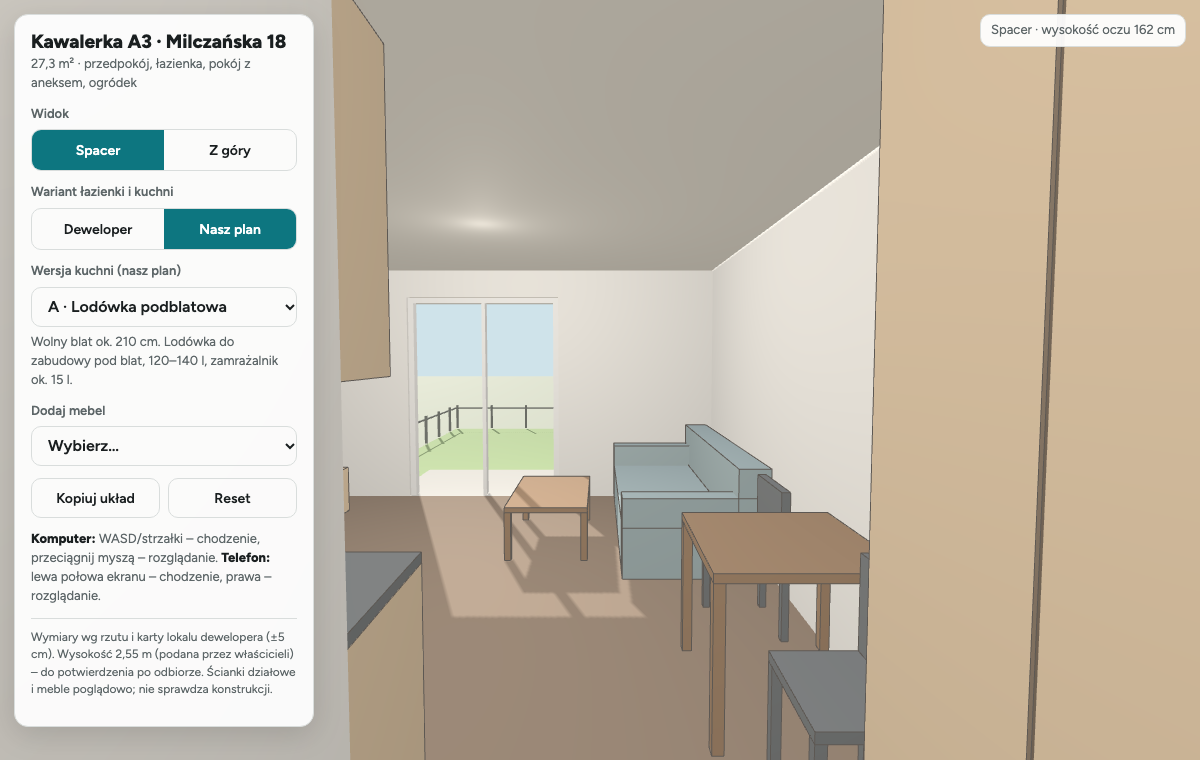
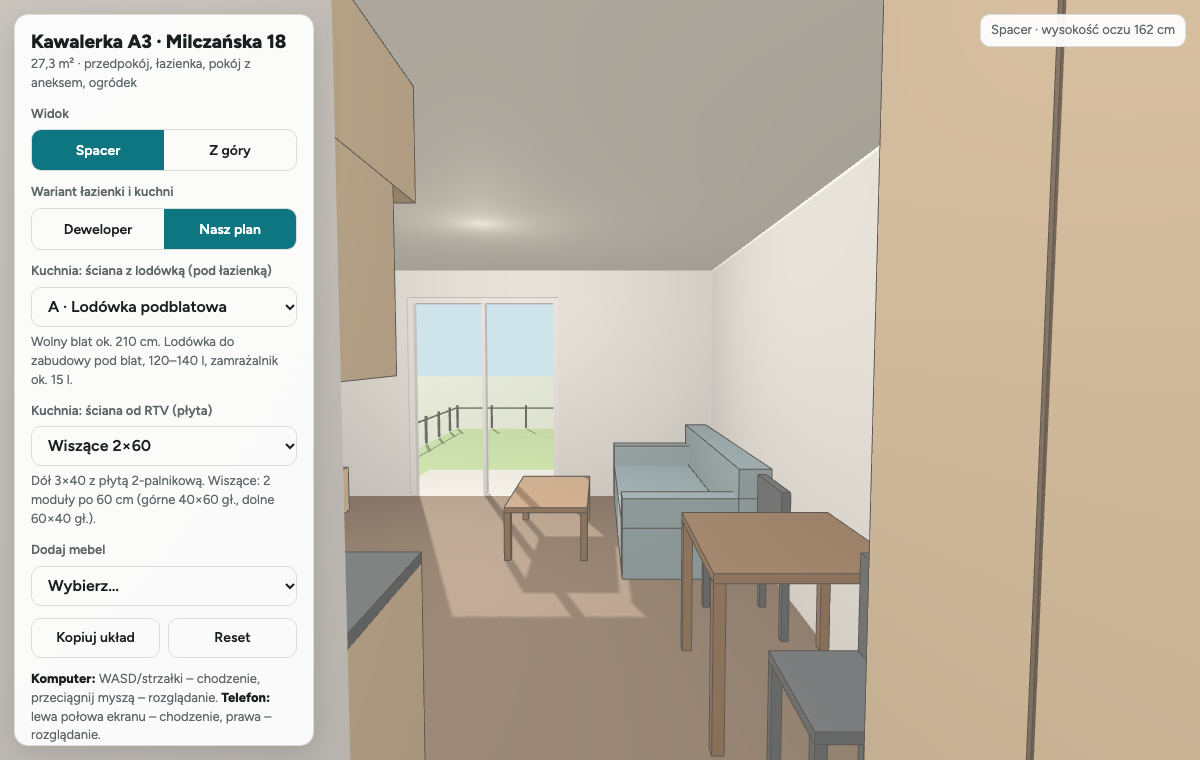
Dodanie picker do kuch ktory zarzadza szafkami w zaleznosci od sciany

diff --git a/index.html b/index.html
@@ -60,9 +60,12 @@ button:focus-visible,select:focus-visible,input:focus-visible{outline:2px solid 
  <div class="seg" id="mode"><button data-m="walk" class="on">Spacer</button><button data-m="top">Z góry</button></div>
  <div class="lbl">Wariant łazienki i kuchni</div>
  <div class="seg" id="bath"><button data-v="dev">Deweloper</button><button data-v="nasz" class="on">Nasz plan</button></div>
- <div id="frBox"><div class="lbl"><label for="fridge">Wersja kuchni (nasz plan)</label></div>
+ <div id="frBox"><div class="lbl"><label for="fridge">Kuchnia: ściana z lodówką (pod łazienką)</label></div>
  <select id="fridge"></select>
- <p class="help" id="frDesc" style="margin-top:6px"></p></div>
+ <p class="help" id="frDesc" style="margin-top:6px"></p>
+ <div class="lbl"><label for="rtv">Kuchnia: ściana od RTV (płyta)</label></div>
+ <select id="rtv"></select>
+ <p class="help" id="rtvDesc" style="margin-top:6px"></p></div>
  <div class="lbl">Dodaj mebel</div>
  <select id="add"><option value="">Wybierz…</option></select>
  <div id="sel" hidden>
@@ -148,23 +151,32 @@ R('lod','Lodówka (zabudowa)','tall',1.9,2.52,2.07,2.67,2.1,COL.oak,'dev');
 R('blat1','Blat: zmywarka + zlew','sinkc',2.52,3.65,2.07,2.67,.9,COL.oak,'dev');
 R('blat2','Blat z płytą','cook',3.65,4.25,2.76,4.63,.9,COL.oak,'dev');
 R('gorne','Szafki górne','upper',3.9,4.25,2.76,4.63,.72,COL.oak,'dev');
-// kuchnia – nasz plan (22.11.2026): szafki wiszące 100 cm pod sufit, przy RTV tylko 3×40 cm
-// pole fr: 'pod' | 'wolna' – przełącznik „Lodówka” (tylko w „Nasz plan”)
-const UY=H-1; // dół szafek wiszących
+// kuchnia – nasz plan (22.11.2026): szafki wiszące 100 cm = górne 40 wys. × 60 gł. pod sufitem + dolne 60 wys. × 40 gł. (bez przerwy)
+// pole fr: wersja ściany z lodówką (lista FRIDGE_WALL), pole rtv: wersja ściany od RTV (lista RTV_WALL)
+const UY=H-1,UT=H-.4; // dół szafek wiszących (dolnych), dół górnych
+// para szafek wiszących wzdłuż ściany pod łazienką (front +z)
+const UPZ=(id,x0,x1,mods,o)=>{R(id+'g','Szafki wiszące górne (40 wys., 60 gł.)','upper',x0,x1,2.07,2.67,.4,COL.oak,'nasz');RX(Object.assign({y:UT,mods},o));
+ R(id+'d','Szafki wiszące dolne (60 wys., 40 gł.)','upper',x0,x1,2.07,2.47,.6,COL.oak,'nasz');RX(Object.assign({y:UY,mods},o))};
+// para szafek wiszących wzdłuż ściany od RTV (front −x)
+const UPX=(id,z0,z1,mods,o,top=true)=>{if(top){R(id+'g','Szafki wiszące górne (40 wys., 60 gł.)','upper',3.65,4.25,z0,z1,.4,COL.oak,'nasz');RX(Object.assign({y:UT,mods},o))}
+ R(id+'d','Szafki wiszące dolne (60 wys., 40 gł.)','upper',3.85,4.25,z0,z1,.6,COL.oak,'nasz');RX(Object.assign({y:UY,mods},o))};
 // a) lodówka podblatowa: jeden ciąg blatu pod łazienką
 R('nBlatP','Blat: lodówka podblatowa + zmywarka + zlew','sinkc',1.9,3.65,2.07,2.67,.9,COL.oak,'nasz');RX({fr:'pod',mods:[.6,.6,.55],sink:[1.25,1.7]});
-R('nGP','Szafki wiszące 100 cm','upper',1.9,3.65,2.07,2.42,1,COL.oak,'nasz');RX({fr:'pod',y:UY,mods:[.6,.6,.55]});
+UPZ('nGP',1.9,3.65,[.6,.6,.55],{fr:'pod'});
 // b) lodówka wolnostojąca 60×145
 R('nLod','Lodówka wolnostojąca 60×145','fridge',1.9,2.5,2.07,2.69,1.45,COL.white,'nasz');RX({fr:'wolna'});
 R('nBlat1','Blat: zmywarka + zlew','sinkc',2.52,3.65,2.07,2.67,.9,COL.oak,'nasz');RX({fr:'wolna',mods:[.6,.53]});
-R('nGW','Szafki wiszące 100 cm','upper',1.9,3.65,2.07,2.42,1,COL.oak,'nasz');RX({fr:'wolna',y:UY,mods:[.62,.6,.53]});
+UPZ('nGW',1.9,3.65,[.62,.6,.53],{fr:'wolna'});
 // c) słupek od wejścia: lodówka do zabudowy (wnęka 140) + szafka do sufitu; podział frontów na wys. UY = linia dołu szafek wiszących
-R('nSlup','Słupek: lodówka do zabudowy 140 + szafka','slupek',1.9,2.5,2.07,2.67,H,COL.oak,'nasz');RX({fr:'slupek',split:[.1,UY]});
+R('nSlup','Słupek: lodówka do zabudowy 140 + szafka','slupek',1.9,2.5,2.07,2.67,H,COL.oak,'nasz');RX({fr:'slupek',split:[.1,UY,UT]}); // podziały w liniach szafek wiszących
 R('nBlatS','Blat: zmywarka + zlew','sinkc',2.5,3.65,2.07,2.67,.9,COL.oak,'nasz');RX({fr:'slupek',mods:[.6,.55],sink:[.65,1.1]});
-R('nGS','Szafki wiszące 100 cm','upper',2.5,3.65,2.07,2.42,1,COL.oak,'nasz');RX({fr:'slupek',y:UY,mods:[.6,.55]});
-// ściana od RTV: 3 moduły po 40 cm
+UPZ('nGS',2.5,3.65,[.6,.55],{fr:'slupek'});
+// ściana od RTV: dolne 3 moduły po 40 cm z płytą 2-palnikową (wspólne), wiszące wg wersji
 R('nBlat2','Blat z płytą 2-palnikową (3×40)','cook',3.65,4.25,2.76,3.96,.9,COL.oak,'nasz');RX({hob:2,mods:[.4,.4,.4]});
-R('nG2v2','Szafki wiszące 100 cm (2×60)','upper',3.9,4.25,2.76,3.96,1,COL.oak,'nasz');RX({y:UY,mods:[.6,.6]});
+UPX('nR60',2.76,3.96,[.6,.6],{rtv:'w2x60'});
+UPX('nR40',2.76,3.96,[.4,.4,.4],{rtv:'w3x40'});
+UPX('nR60b',2.76,3.96,[.6,.6],{rtv:'w2x60b'},false); // bez górnych 40×60 – nad szafkami wolna ściana do sufitu
+UPX('nR40b',2.76,3.96,[.4,.4,.4],{rtv:'w3x40b'},false);
 // pokój
 R('stol','Stół','table',0,.8,2.83,3.63,.75,COL.wood);
 R('kr1','Krzesło','chair',.19,.59,2.35,2.79,.85,COL.dark);
@@ -186,28 +198,35 @@ R('nWc','WC podwieszane','wc',2.82,3.22,1.22,1.75,.4,COL.white,'nasz');
 R('nSz','Szafa z pralką (do sufitu)','wardrobe',2,2.62,1.3,1.95,H,COL.oak,'nasz');
 R('nLu','Lustro 60×80','mirror',2.85,3.45,0,.02,.8,0xc9d6dc,'nasz');DEFAULT[DEFAULT.length-1].y=1.1; // nad umywalką, dół 110 cm
 R('nDr','Grzejnik drabinkowy 50×125','ladder',3.59,4.09,0,.05,1.25,0xf4f4f2,'nasz');DEFAULT[DEFAULT.length-1].y=1.15; // 115 cm nad podłogą, 16 cm od prawej ściany
-// wersje kuchni „Nasz plan” (lista rozwijana). Nowa wersja = nowy wpis + meble z polem fr:'<id>'
-const KITCHEN=[
+// wersje kuchni „Nasz plan” – osobno dla każdej ściany (listy rozwijane).
+// Nowa wersja = nowy wpis + meble z polem fr:'<id>' (ściana z lodówką) albo rtv:'<id>' (ściana od RTV)
+const FRIDGE_WALL=[
  {id:'pod',name:'A · Lodówka podblatowa',desc:'Wolny blat ok. 210 cm. Lodówka do zabudowy pod blat, 120–140 l, zamrażalnik ok. 15 l.'},
  {id:'wolna',name:'B · Wolnostojąca 60×145',desc:'Wolny blat ok. 150 cm. Ok. 200 l. Biała bryła przerywa linię frontów.'},
  {id:'slupek',name:'C · Słupek z lodówką 140',desc:'Wolny blat ok. 150 cm. Lodówka do zabudowy (wnęka 140), ok. 200 l; podział frontów na 155 cm = linia szafek wiszących.'}];
+const RTV_WALL=[
+ {id:'w2x60',name:'Wiszące 2×60',desc:'Dół 3×40 z płytą 2-palnikową. Wiszące: 2 moduły po 60 cm (górne 40×60 gł., dolne 60×40 gł.).'},
+ {id:'w3x40',name:'Wiszące 3×40',desc:'Dół 3×40 z płytą 2-palnikową. Wiszące: 3 moduły po 40 cm, fronty w osi z dolnymi szafkami.'},
+ {id:'w2x60b',name:'Wiszące 2×60, bez górnych',desc:'Dół 3×40 z płytą 2-palnikową. Wiszące tylko 60 wys. × 40 gł. (1,55–2,15 m), nad nimi 40 cm wolnej ściany.'},
+ {id:'w3x40b',name:'Wiszące 3×40, bez górnych',desc:'Dół 3×40 z płytą 2-palnikową. Wiszące tylko 60 wys. × 40 gł. (1,55–2,15 m), 3 moduły po 40 cm, nad nimi 40 cm wolnej ściany.'}];
 const CATALOG=[['Łóżko 160×200','bed',1.6,2.1,.5,COL.blue],['Łóżko 140×200','bed',1.4,2.1,.5,COL.blue],['Sofa rozkładana 200','sofa',2,.95,.85,COL.fabric],['Fotel','chair',.8,.8,.85,COL.fabric],['Biurko 120×60','table',1.2,.6,.75,COL.wood],['Stół 120×80','table',1.2,.8,.75,COL.wood],['Krzesło','chair',.44,.44,.85,COL.dark],['Szafa 100×60','wardrobe',1,.6,2.2,COL.oak],['Regał 80×35','wardrobe',.8,.35,1.9,COL.oak],['Komoda 120×45','tall',1.2,.45,.85,COL.oak],['Wyspa / barek 120×60','tall',1.2,.6,.95,COL.oak],['Dywan 160×230','rug',1.6,2.3,.01,0xc9c1b4],['Roślina','plant',.45,.45,1.3,0x4f7a43]];
 const addSel=document.getElementById('add');
-const frSel=document.getElementById('fridge');frSel.innerHTML=KITCHEN.map(k=>`<option value="${k.id}">${k.name}</option>`).join('');
+const frSel=document.getElementById('fridge');frSel.innerHTML=FRIDGE_WALL.map(k=>`<option value="${k.id}">${k.name}</option>`).join('');
+const rtvSel=document.getElementById('rtv');rtvSel.innerHTML=RTV_WALL.map(k=>`<option value="${k.id}">${k.name}</option>`).join('');
 addSel.innerHTML+=CATALOG.map((c,i)=>`<option value="${i}">${c[0]}</option>`).join('');
 
-let state={bath:'nasz',fridge:'pod',items:JSON.parse(JSON.stringify(DEFAULT))};
-const KEY='a3-milczanska-uklad-v8';
+let state={bath:'nasz',fridge:'pod',rtv:'w2x60',items:JSON.parse(JSON.stringify(DEFAULT))};
+const KEY='a3-milczanska-uklad-v9';
 try{let s=JSON.parse(localStorage.getItem(KEY));
- if(!s){s=JSON.parse(localStorage.getItem('a3-milczanska-uklad-v7'))||JSON.parse(localStorage.getItem('a3-milczanska-uklad-v6'))||JSON.parse(localStorage.getItem('a3-milczanska-uklad-v5'))||JSON.parse(localStorage.getItem('a3-milczanska-uklad-v4'))||JSON.parse(localStorage.getItem('a3-milczanska-uklad-v3'))||JSON.parse(localStorage.getItem('a3-milczanska-uklad-v2'));
+ if(!s){s=JSON.parse(localStorage.getItem('a3-milczanska-uklad-v8'))||JSON.parse(localStorage.getItem('a3-milczanska-uklad-v7'))||JSON.parse(localStorage.getItem('a3-milczanska-uklad-v6'))||JSON.parse(localStorage.getItem('a3-milczanska-uklad-v5'))||JSON.parse(localStorage.getItem('a3-milczanska-uklad-v4'))||JSON.parse(localStorage.getItem('a3-milczanska-uklad-v3'))||JSON.parse(localStorage.getItem('a3-milczanska-uklad-v2'));
   if(!s){s=JSON.parse(localStorage.getItem('a3-milczanska-uklad-v1'));
    // v1 -> v2: zostają pozycje, kolory domyślnych mebli z nowej palety (kontrast)
    if(s&&s.items)s.items.forEach(it=>{const d=DEFAULT.find(x=>x.id===it.id);if(d)it.color=d.color})}
-  // starsze -> v8: „Nasz plan” (łazienka + kuchnia) z DEFAULT, wariant domyślnych mebli z DEFAULT; reszta mebli zostaje na swoich miejscach
+  // starsze -> v9: „Nasz plan” (łazienka + kuchnia) z DEFAULT, wariant domyślnych mebli z DEFAULT; reszta mebli zostaje na swoich miejscach
   if(s&&s.items)s.items.forEach(it=>{const d=DEFAULT.find(x=>x.id===it.id);if(d)it.v=d.v});
   if(s&&s.items)s.items=s.items.filter(it=>it.v!=='nasz').concat(JSON.parse(JSON.stringify(DEFAULT.filter(d=>d.v==='nasz'))))}
  if(s&&s.items){DEFAULT.forEach(d=>{if(!s.items.some(i=>i.id===d.id))s.items.push(JSON.parse(JSON.stringify(d)))}); // nowe meble z DEFAULT (np. nowa wersja kuchni)
-  if(!KITCHEN.some(k=>k.id===s.fridge))s.fridge='pod';state=s}}catch(e){}
+  if(!FRIDGE_WALL.some(k=>k.id===s.fridge))s.fridge='pod';if(!RTV_WALL.some(k=>k.id===s.rtv))s.rtv='w2x60';state=s}}catch(e){}
 const save=()=>{try{localStorage.setItem(KEY,JSON.stringify(state))}catch(e){}};
 
 const furn=new THREE.Group();scene.add(furn);
@@ -263,7 +282,7 @@ const edgeMat=new THREE.LineBasicMaterial({color:0x1c1916});
 const glassEdgeMat=new THREE.LineBasicMaterial({color:0x6d7f86});
 function addEdges(g){g.children.slice().forEach(o=>{if(!o.isMesh)return;
  const l=new THREE.LineSegments(new THREE.EdgesGeometry(o.geometry,30),o.material===mat.glass?glassEdgeMat:edgeMat);l.raycast=()=>{};o.add(l)})}
-const visible=it=>!it.hidden&&(it.v==='all'||it.v===state.bath)&&(!it.fr||it.fr===(state.fridge||'pod'));
+const visible=it=>!it.hidden&&(it.v==='all'||it.v===state.bath)&&(!it.fr||it.fr===(state.fridge||'pod'))&&(!it.rtv||it.rtv===(state.rtv||'w2x60'));
 function rebuild(){
  while(furn.children.length)furn.remove(furn.children[0]);
  state.items.filter(visible).forEach(it=>{const g=build(it);furn.add(g);if(it.id===selId)outline(g)});
@@ -283,9 +302,11 @@ function setMode(m){mode=m;document.querySelectorAll('#mode button').forEach(b=>
 document.querySelectorAll('#mode button').forEach(b=>b.onclick=()=>setMode(b.dataset.m));
 document.querySelectorAll('#bath button').forEach(b=>b.onclick=()=>{state.bath=b.dataset.v;markBath();if(selId&&!visible(selItem()))selId=null;rebuild()});
 function markBath(){document.querySelectorAll('#bath button').forEach(b=>b.classList.toggle('on',b.dataset.v===state.bath));
- frSel.value=state.fridge||'pod';const k=KITCHEN.find(k=>k.id===frSel.value);document.getElementById('frDesc').textContent=k?k.desc:'';
+ frSel.value=state.fridge||'pod';const k=FRIDGE_WALL.find(k=>k.id===frSel.value);document.getElementById('frDesc').textContent=k?k.desc:'';
+ rtvSel.value=state.rtv||'w2x60';const r=RTV_WALL.find(k=>k.id===rtvSel.value);document.getElementById('rtvDesc').textContent=r?r.desc:'';
  document.getElementById('frBox').hidden=state.bath!=='nasz'}
 frSel.onchange=()=>{state.fridge=frSel.value;markBath();if(selId&&!visible(selItem()))selId=null;rebuild()};
+rtvSel.onchange=()=>{state.rtv=rtvSel.value;markBath();if(selId&&!visible(selItem()))selId=null;rebuild()};
 document.getElementById('toggle').onclick=()=>document.getElementById('panel').classList.toggle('open');
 
 // ---------- zaznaczanie i edycja ----------
@@ -299,8 +320,8 @@ document.getElementById('sRot').onclick=()=>{const it=selItem();if(it){it.rot=(i
 document.getElementById('sDel').onclick=()=>{const it=selItem();if(it){it.hidden=true;selId=null;rebuild()}};
 addSel.onchange=()=>{const c=CATALOG[addSel.value];if(!c)return;const id='u'+Date.now();
  state.items.push({id,name:c[0],kind:c[1],w:c[2],d:c[3],h:c[4],color:c[5],x:2.1,z:4.4,rot:0,v:'all'});selId=id;addSel.value='';setMode('top');rebuild()};
-document.getElementById('reset').onclick=()=>{state={bath:'nasz',fridge:'pod',items:JSON.parse(JSON.stringify(DEFAULT))};selId=null;markBath();rebuild()};
-document.getElementById('copy').onclick=()=>{const txt=JSON.stringify({wariant:state.bath,kuchnia:state.bath==='nasz'?(KITCHEN.find(k=>k.id===(state.fridge||'pod'))||{}).name:undefined,meble:state.items.filter(visible).map(i=>({nazwa:i.name,x_cm:Math.round(i.x*100),z_cm:Math.round(i.z*100),szer:Math.round(i.w*100),gleb:Math.round(i.d*100),wys:Math.round(i.h*100),obrot:i.rot}))});
+document.getElementById('reset').onclick=()=>{state={bath:'nasz',fridge:'pod',rtv:'w2x60',items:JSON.parse(JSON.stringify(DEFAULT))};selId=null;markBath();rebuild()};
+document.getElementById('copy').onclick=()=>{const txt=JSON.stringify({wariant:state.bath,kuchnia:state.bath==='nasz'?{sciana_lodowka:(FRIDGE_WALL.find(k=>k.id===(state.fridge||'pod'))||{}).name,sciana_rtv:(RTV_WALL.find(k=>k.id===(state.rtv||'w2x60'))||{}).name}:undefined,meble:state.items.filter(visible).map(i=>({nazwa:i.name,x_cm:Math.round(i.x*100),z_cm:Math.round(i.z*100),szer:Math.round(i.w*100),gleb:Math.round(i.d*100),wys:Math.round(i.h*100),obrot:i.rot}))});
  const box=document.getElementById('copybox');box.value=txt;
  navigator.clipboard.writeText(txt).then(()=>{hud.textContent='Układ skopiowany – wklej go w czacie'}).catch(()=>{box.style.display='block';box.select()})};
 

diff --git a/tools/screenshot.py b/tools/screenshot.py
@@ -1,7 +1,7 @@
 """Zrzuty ekranu modelu do sprawdzenia zmian.
 Użycie: pip install playwright && playwright install chromium
         python3 tools/screenshot.py
-Wynik: shots/spacer.png, shots/z_gory.png, shots/z_gory_slupek.png, shots/z_gory_deweloper.png
+Wynik: shots/spacer.png, shots/z_gory.png, shots/z_gory_slupek.png, shots/z_gory_rtv_bez_gornych.png, shots/z_gory_deweloper.png
 """
 import asyncio, pathlib
 from playwright.async_api import async_playwright
@@ -28,6 +28,10 @@ async def main():
         await pg.wait_for_timeout(800)
         await pg.screenshot(path=OUT / "z_gory_slupek.png")
         await pg.select_option("#fridge", "pod")
+        await pg.select_option("#rtv", "w2x60b")
+        await pg.wait_for_timeout(800)
+        await pg.screenshot(path=OUT / "z_gory_rtv_bez_gornych.png")
+        await pg.select_option("#rtv", "w2x60")
         await pg.click("#bath button[data-v=dev]")
         await pg.wait_for_timeout(800)
         await pg.screenshot(path=OUT / "z_gory_deweloper.png")

diff --git a/CLAUDE.md b/CLAUDE.md
@@ -48,7 +48,7 @@ na etapie koncepcji, przed decyzjami instalacyjnymi. Interfejs i komentarze po p
 - `build(it)` rysuje mebel wg `kind`: sofa, bed, table, chair, wardrobe, tall, upper, sinkc, cook, tv, sink,
   bath, wc, washer, fridge, shower, showerq (półokrągły, narożnik w lokalnym +x,+z), ladder (grzejnik drabinkowy), mirror (lustro; oba z opcjonalnym `y` = wys. dolnej krawędzi), rug, plant (domyślnie prostopadłościan). Nowy rodzaj = nowy `case`.
 - `CATALOG` – meble do dodania z listy: `[nazwa, kind, w, d, h, kolor]`.
-- Stan zapisuje się w `localStorage` (klucz `a3-milczanska-uklad-v8`; v1–v7 migrują się z zachowaniem pozycji, przy migracji meble łazienki „nasz” biorą się z `DEFAULT`). Po zmianie `DEFAULT` użyj „Reset”
+- Stan zapisuje się w `localStorage` (klucz `a3-milczanska-uklad-v9`; v1–v8 migrują się z zachowaniem pozycji, przy migracji meble łazienki „nasz” biorą się z `DEFAULT`). Po zmianie `DEFAULT` użyj „Reset”
   albo podbij wersję klucza.
 - Sterowanie: Spacer (WASD/strzałki + przeciąganie myszą; telefon: lewa połowa = chodzenie, prawa = rozglądanie),
   Z góry (przeciąganie mebla, skok 5 cm; tło = obrót; kółko/szczypanie = zoom; R = obrót mebla).
@@ -66,11 +66,14 @@ na etapie koncepcji, przed decyzjami instalacyjnymi. Interfejs i komentarze po p
   grzejnik drabinkowy 50×125 na ścianie z umywalką, 115 cm nad podłogą, 16 cm od prawej ściany (x 3,59–4,09; pole `y` = wys. dolnej krawędzi).
   Kielich kanalizacji 110 mm jest w narożniku przy szachcie, a rura do WC idzie w zabudowie ze spadkiem ≥2%.
 - Kuchnia: przełącznik „Wariant łazienki i kuchni” przełącza też kuchnię. „Deweloper” = układ z karty (L: lodówka w zabudowie + zmywarka + zlew pod łazienką, płyta wzdłuż prawej ściany).
-  „Nasz plan” (22.11.2026): lista rozwijana „Wersja kuchni” (tablica `KITCHEN` = {id,name,desc}; meble wersji mają pole `fr` = id; wybór w `state.fridge`).
-  Nowa wersja = wpis w `KITCHEN` + meble z `fr:'<id>'` (brakujące meble z `DEFAULT` dopisują się do zapisanego stanu przy wczytaniu).
+  „Nasz plan” (22.11.2026): dwie listy rozwijane, osobno dla każdej ściany:
+  „ściana z lodówką” (tablica `FRIDGE_WALL`, pole mebla `fr`, `state.fridge`) i „ściana od RTV” (tablica `RTV_WALL`, pole `rtv`, `state.rtv`: `w2x60` | `w3x40` | `w2x60b` | `w3x40b` – „b” = bez górnych 40×60, tylko dolne wiszące 60×40; `UPX(...,top=false)`).
+  Nowa wersja = wpis {id,name,desc} w odpowiedniej tablicy + meble z `fr:'<id>'` / `rtv:'<id>'` (brakujące meble z `DEFAULT` dopisują się do zapisanego stanu przy wczytaniu).
   `pod` = jeden blat pod łazienką x 1,90–3,65 (lodówka podblatowa 60 + zmywarka 60 + zlew 55), `wolna` = lodówka wolnostojąca 60×145 + blat zmywarka/zlew x 2,52–3,65,
-  `slupek` = słupek do sufitu x 1,90–2,50 (kind `slupek`, pole `split` = wysokości poziomych podziałów: cokół 10 cm, lodówka do zabudowy wnęka 140, podział na 1,55 = dół szafek wiszących) + blat zmywarka/zlew x 2,50–3,65;
-  przy ścianie od RTV dolne 3×40 cm (z 2,76–3,96) z płytą 2-palnikową 30×52, wiszące nad nimi 2×60 cm; szafki wiszące 100 cm, góra pod sufitem (dół H−1 = 1,55 m).
+  `slupek` = słupek do sufitu x 1,90–2,50 (kind `slupek`, pole `split` = wysokości poziomych podziałów: cokół 10 cm, lodówka do zabudowy wnęka 140, podziały na 1,55 i 2,15 = linie szafek wiszących) + blat zmywarka/zlew x 2,50–3,65;
+  przy ścianie od RTV dolne 3×40 cm (z 2,76–3,96) z płytą 2-palnikową 30×52, wiszące nad nimi 2×60 albo 3×40 cm.
+  Szafki wiszące (obie ściany) = para mebli: górne 40 wys. × 60 gł. pod sufitem (dół `UT`=H−0,40) + dolne 60 wys. × 40 gł. bez przerwy (dół `UY`=H−1 = 1,55 m);
+  helpery `UPZ` (ściana pod łazienką) i `UPX` (ściana od RTV).
   Linie podziału frontów z pola `mods` (szerokości modułów w m), pozycja zlewu z `sink:[x0,x1]`.
 - Przedpokój „Nasz plan”: szafa do sufitu (z 0,62–2,04) + obudowa GK przewodu kominowego w narożniku przy wejściu
   (x 0–0,32, z 0,32–0,62, wymiar przyjęty, do zmierzenia) z płytką szafką 28 cm przed nią. „Deweloper” = szafa 2,40 m.
